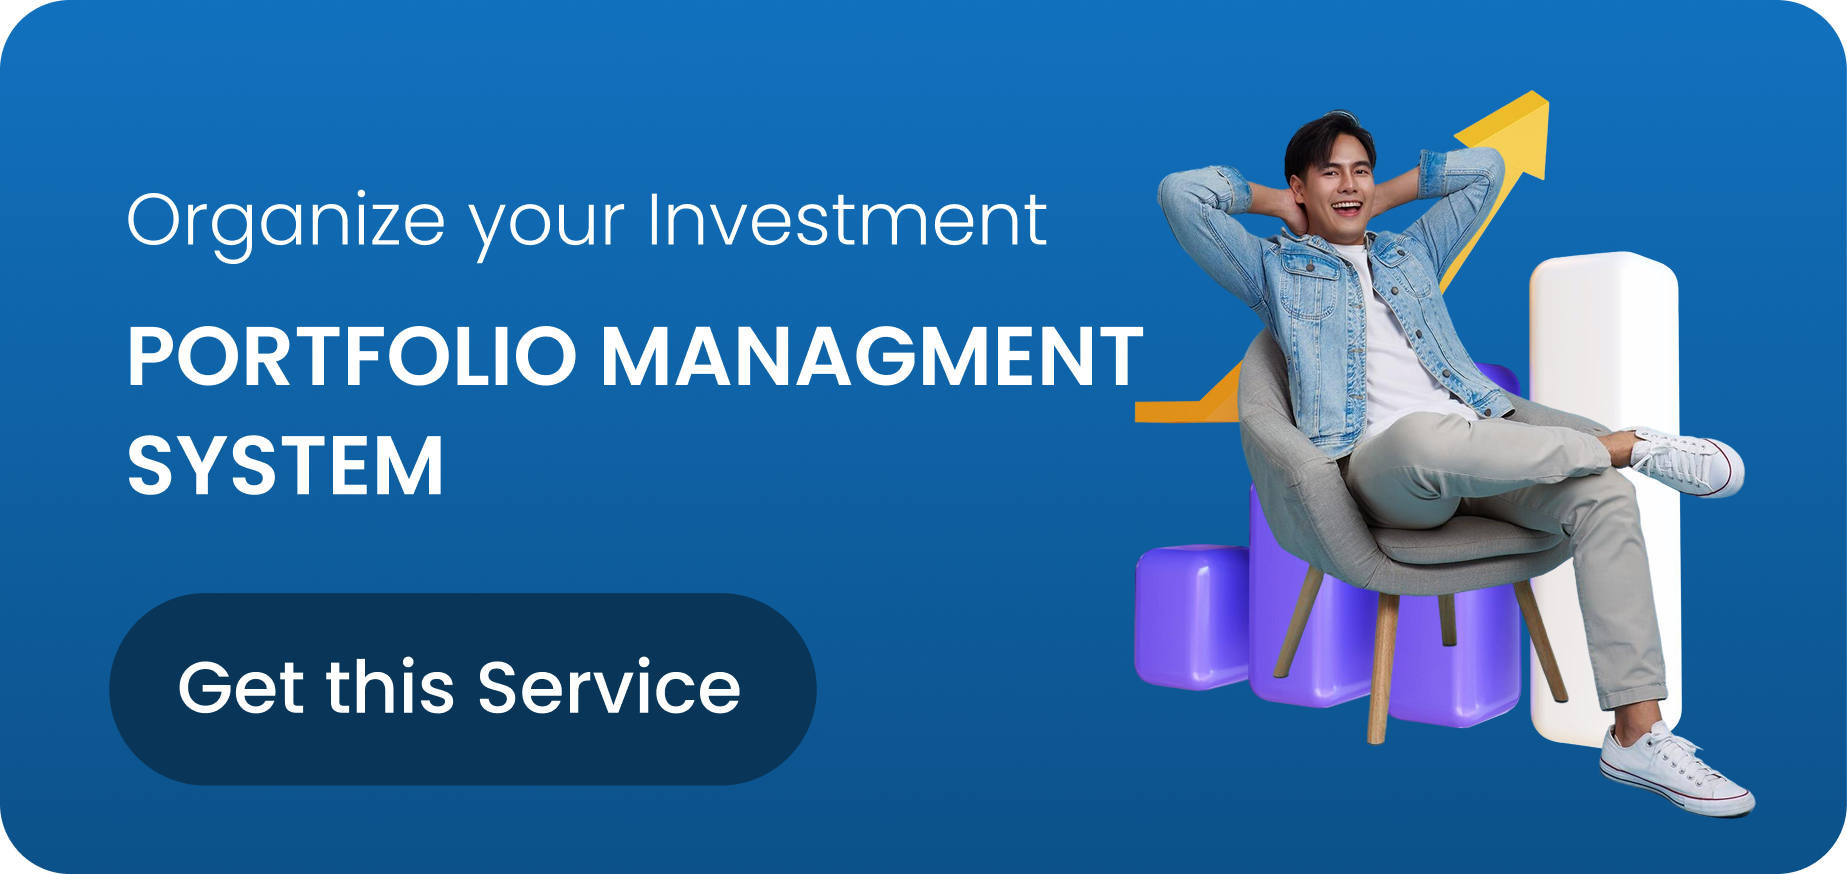
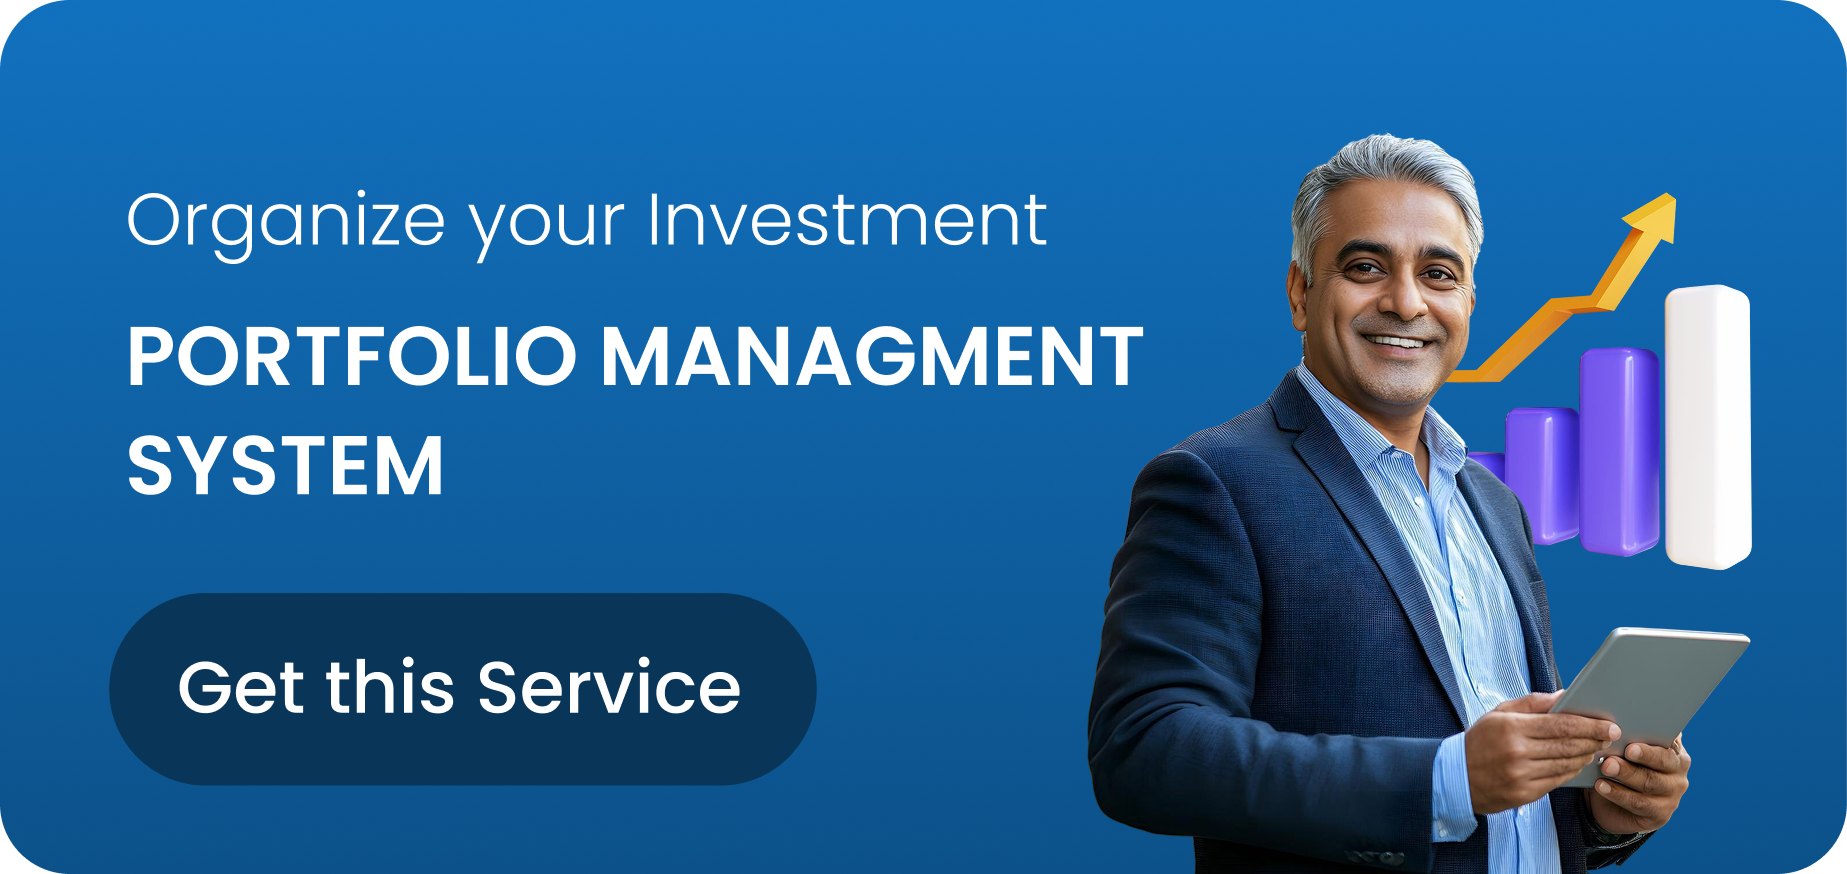
17-06 feedback changes done

Changed region(s): [[0.5864, 0.0927, 0.9567, 1.0]]

diff --git a/app/(tabs)/home.jsx b/app/(tabs)/home.jsx
@@ -66,6 +66,11 @@ export default function Home() {
     const [activeIndex, setActiveIndex] = useState(0);
     const screenWidth = Dimensions.get("window").width;
 
+
+    const { width } = Dimensions.get('window');
+    const ITEM_WIDTH = width * 0.9; // 90% of screen width
+    const SPACING = (width - ITEM_WIDTH) / 2;
+
     useEffect(() => {
         const timer = setTimeout(() => setShowPullHint(false), 3000); // Hide after 3 sec
         return () => clearTimeout(timer);
@@ -90,10 +95,27 @@ export default function Home() {
     const initialOfferData = [
         {
             id: '1',
-            title: 'PORTFOLIO MANAGEMENT SYSTEM',
+            serviceId: 1,
+            color: [COLORS.secondaryColor, COLORS.secondaryColor],
+            onClick: () => {
+                setServiceSelectedOnHomePage(1)
+                router.push("service");
+            },
+            banner: require('../../assets/images/fastlaneBanner.png')
+        },
+        {
+            id: '2',
+            serviceId: 6,
+            color: [COLORS.secondaryColor, COLORS.secondaryColor],
+            onClick: () => {
+                setServiceSelectedOnHomePage(6)
+                router.push("service");
+            },
+            banner: require('../../assets/images/premiumResearchbanner.png')
+        },
+        {
+            id: '3',
             serviceId: 3,
-            subtitle: 'Organize your Investment',
-            buttonText: 'Get this Service',
             color: [COLORS.secondaryColor, COLORS.secondaryColor],
             onClick: () => {
                 setServiceSelectedOnHomePage(3)
@@ -102,7 +124,7 @@ export default function Home() {
             banner: require('../../assets/images/portfolioBanner.png')
         },
         {
-            id: '2',
+            id: '4',
             title: 'QuantumVault (For Above ₹50 lakh Capital)',
             serviceId: 4,
             subtitle: 'Expert Stock Picks',
@@ -119,7 +141,7 @@ export default function Home() {
     const [offerData, setOfferData] = useState(initialOfferData);
     useEffect(() => {
         // Create a set of purchased service IDs
-        const purchasedServiceIds = new Set(portfolioServices.map(service => service.id));
+        const purchasedServiceIds = new Set(purchesService.map(service => service.id));
 
         // Filter offer data
         const filteredOffers = initialOfferData.filter(
@@ -312,32 +334,43 @@ export default function Home() {
             <>
                 {/* Offer Carousel Section */}
                 <View style={styles.carouselContainer}>
-                    <ScrollView
+                    <FlatList
+                        data={offerData}
+                        keyExtractor={(item) => item.id.toString()}
                         horizontal
-                        pagingEnabled
                         showsHorizontalScrollIndicator={false}
-                        onScroll={handleScroll}
-                        scrollEventThrottle={16}
-                        style={{ paddingHorizontal: 10 }}
-                    >
-                        {offerData.map((item, index) => (
+                        snapToInterval={ITEM_WIDTH}
+                        decelerationRate="fast"
+                        contentContainerStyle={{
+                            paddingHorizontal: SPACING
+                        }}
+                        renderItem={({ item, index }) => (
                             <Animatable.View
-                                key={item.id}
                                 animation="fadeInRight"
                                 delay={index * 100}
                                 duration={300}
                             >
                                 <TouchableOpacity onPress={() => item.onClick()}>
                                     <Image
-                                        style={styles.offerCard}
                                         source={item.banner}
+                                        style={{
+                                            width: ITEM_WIDTH,
+                                            height: 177,
+                                            borderRadius: 10,
+                                            overflow: 'hidden',
+                                            marginHorizontal: 5,
+                                        }}
                                         resizeMode="stretch"
                                     />
                                 </TouchableOpacity>
                             </Animatable.View>
-                        ))}
-                    </ScrollView>
+                        )}
+                        onScroll={(e) => {
+                            const index = Math.round(e.nativeEvent.contentOffset.x / ITEM_WIDTH);
+                            setActiveIndex(index); // use this for dot indicators
+                        }}
 
+                    />
                     {/* Dot Indicators */}
                     {showOffterSliderDots()}
                 </View>
@@ -466,7 +499,7 @@ const styles = StyleSheet.create({
     },
     offerCard: {
         height: 177,
-        width: width - 38,
+        width: width,
         marginHorizontal: 10,
         position: 'relative',
         overflow: "hidden"

diff --git a/app/components/PortfolioTab.jsx b/app/components/PortfolioTab.jsx
@@ -330,7 +330,7 @@ const styles = StyleSheet.create({
         borderRadius: 16,
         padding: 20,
         marginTop: 10,
-        marginBottom: 20,
+        marginBottom: 15,
         borderWidth: 1,
         borderColor: 'rgba(255, 255, 255, 0.1)',
     },
